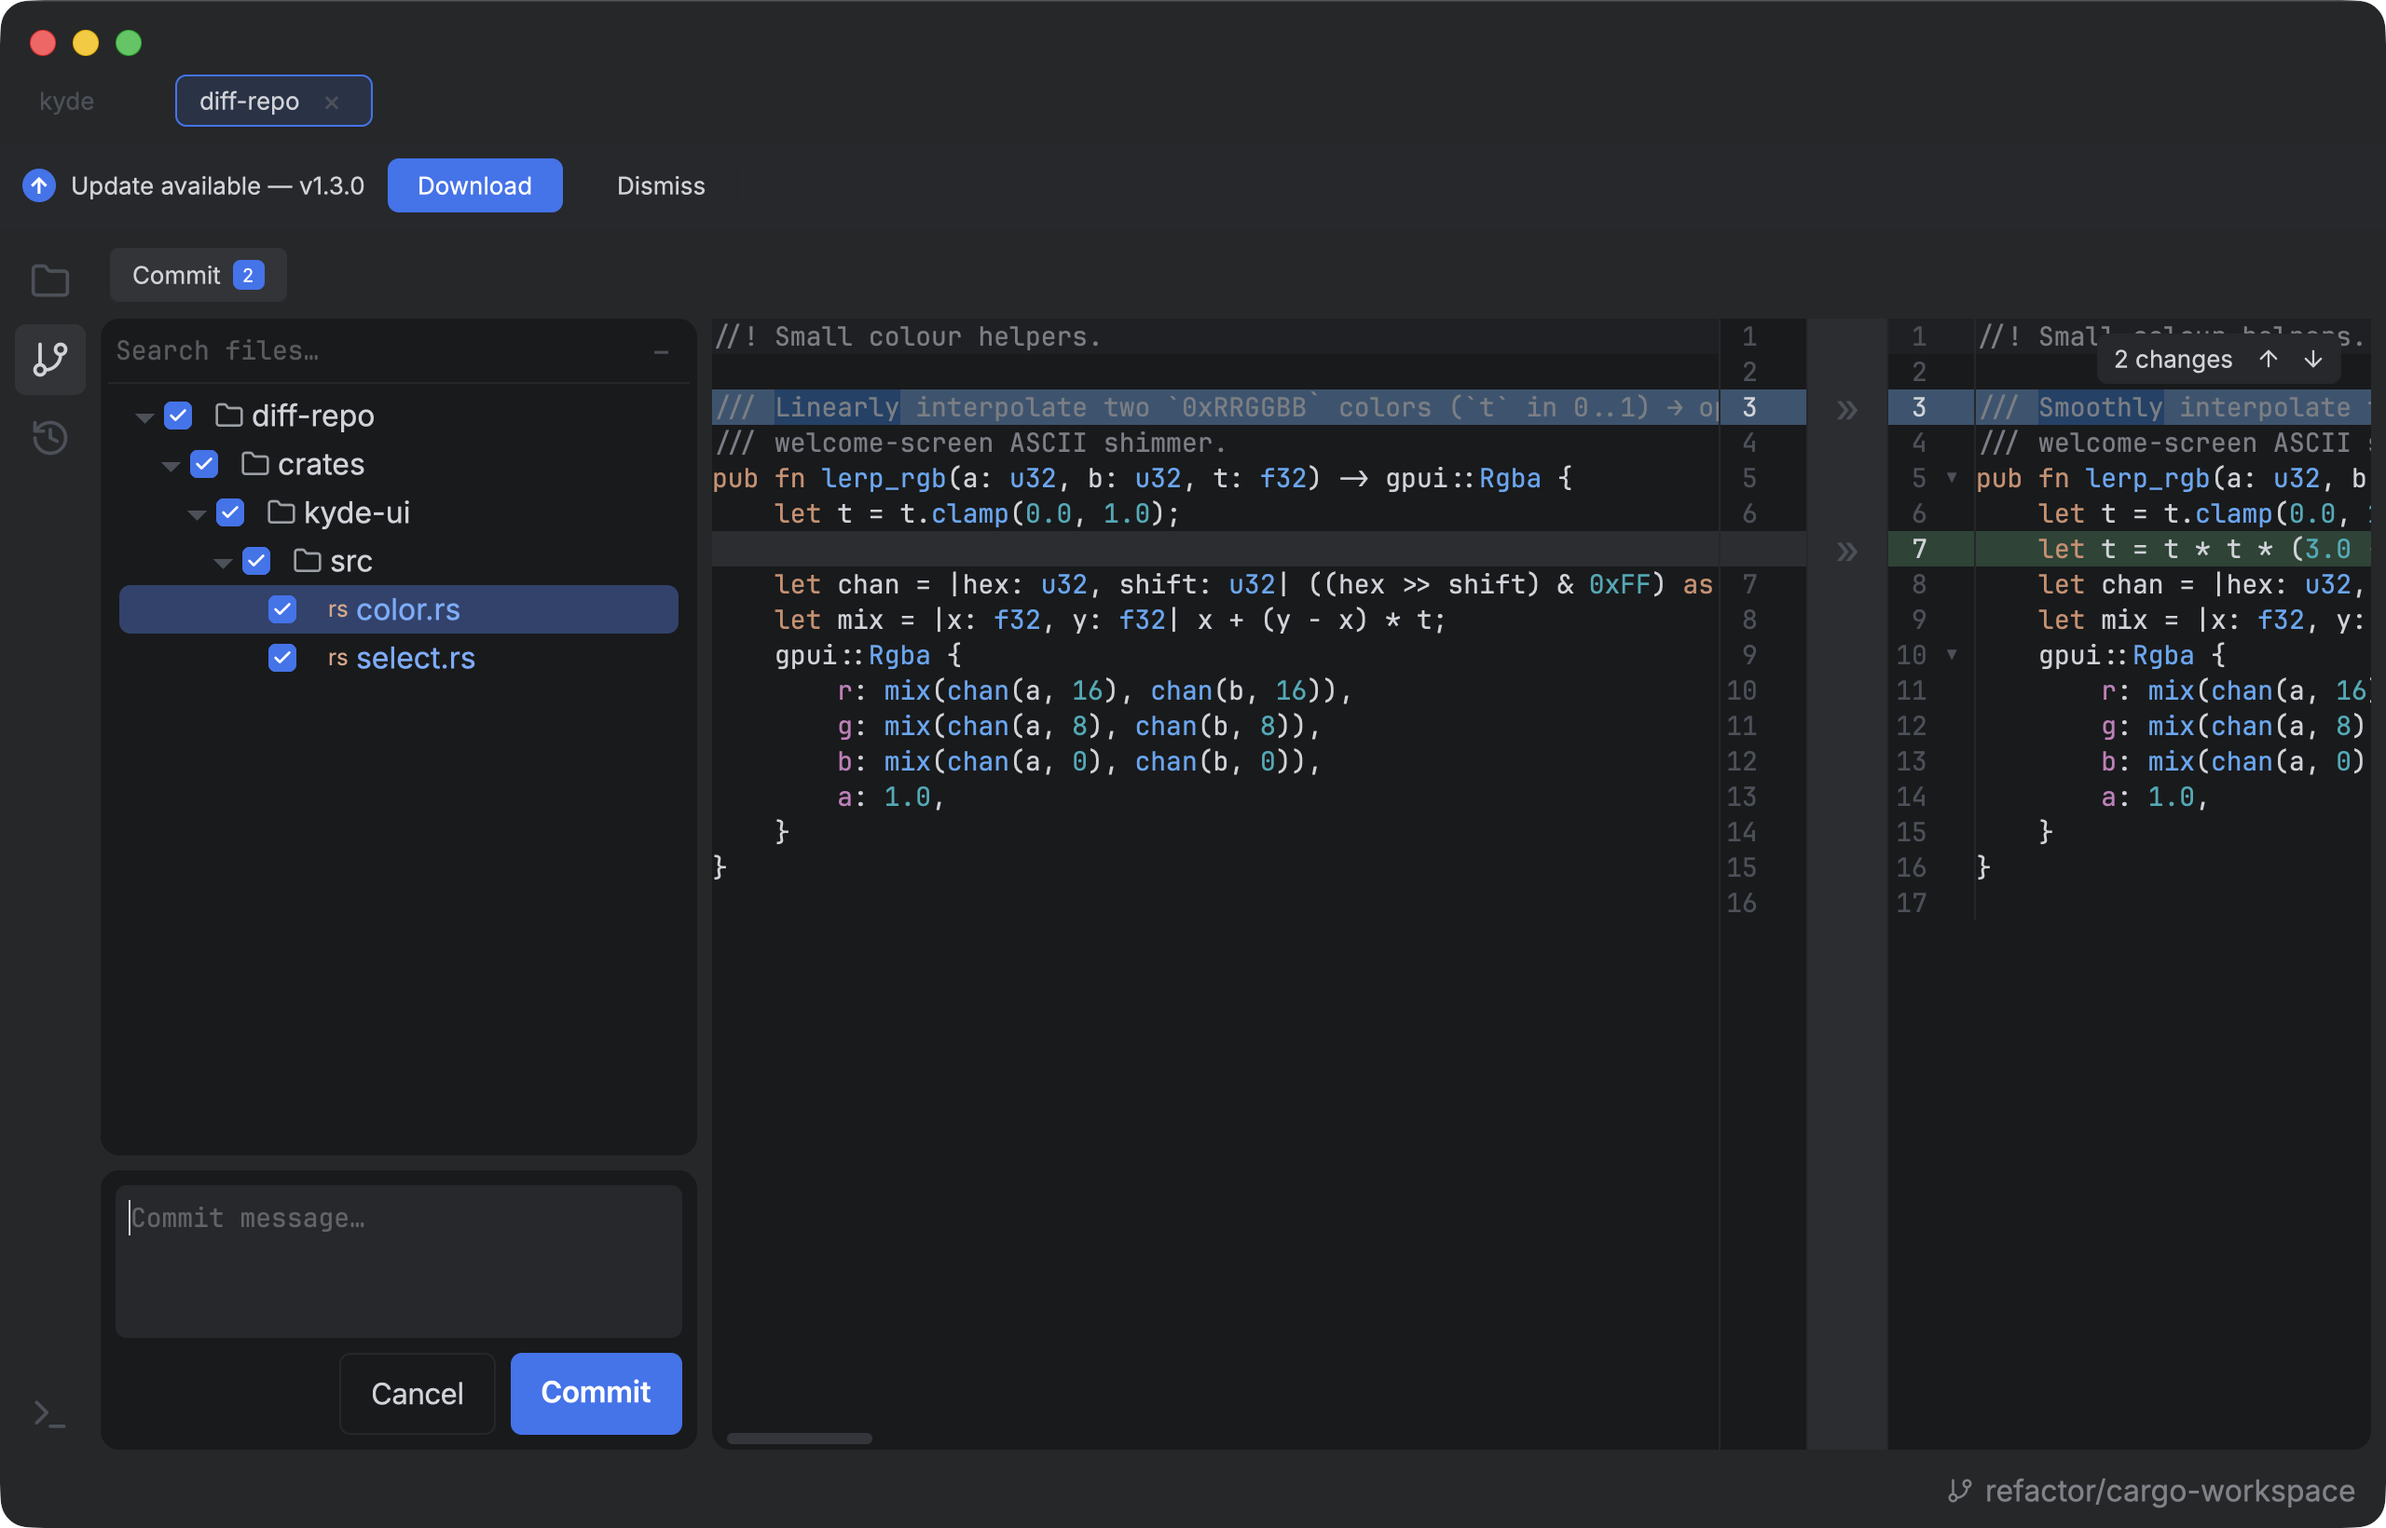
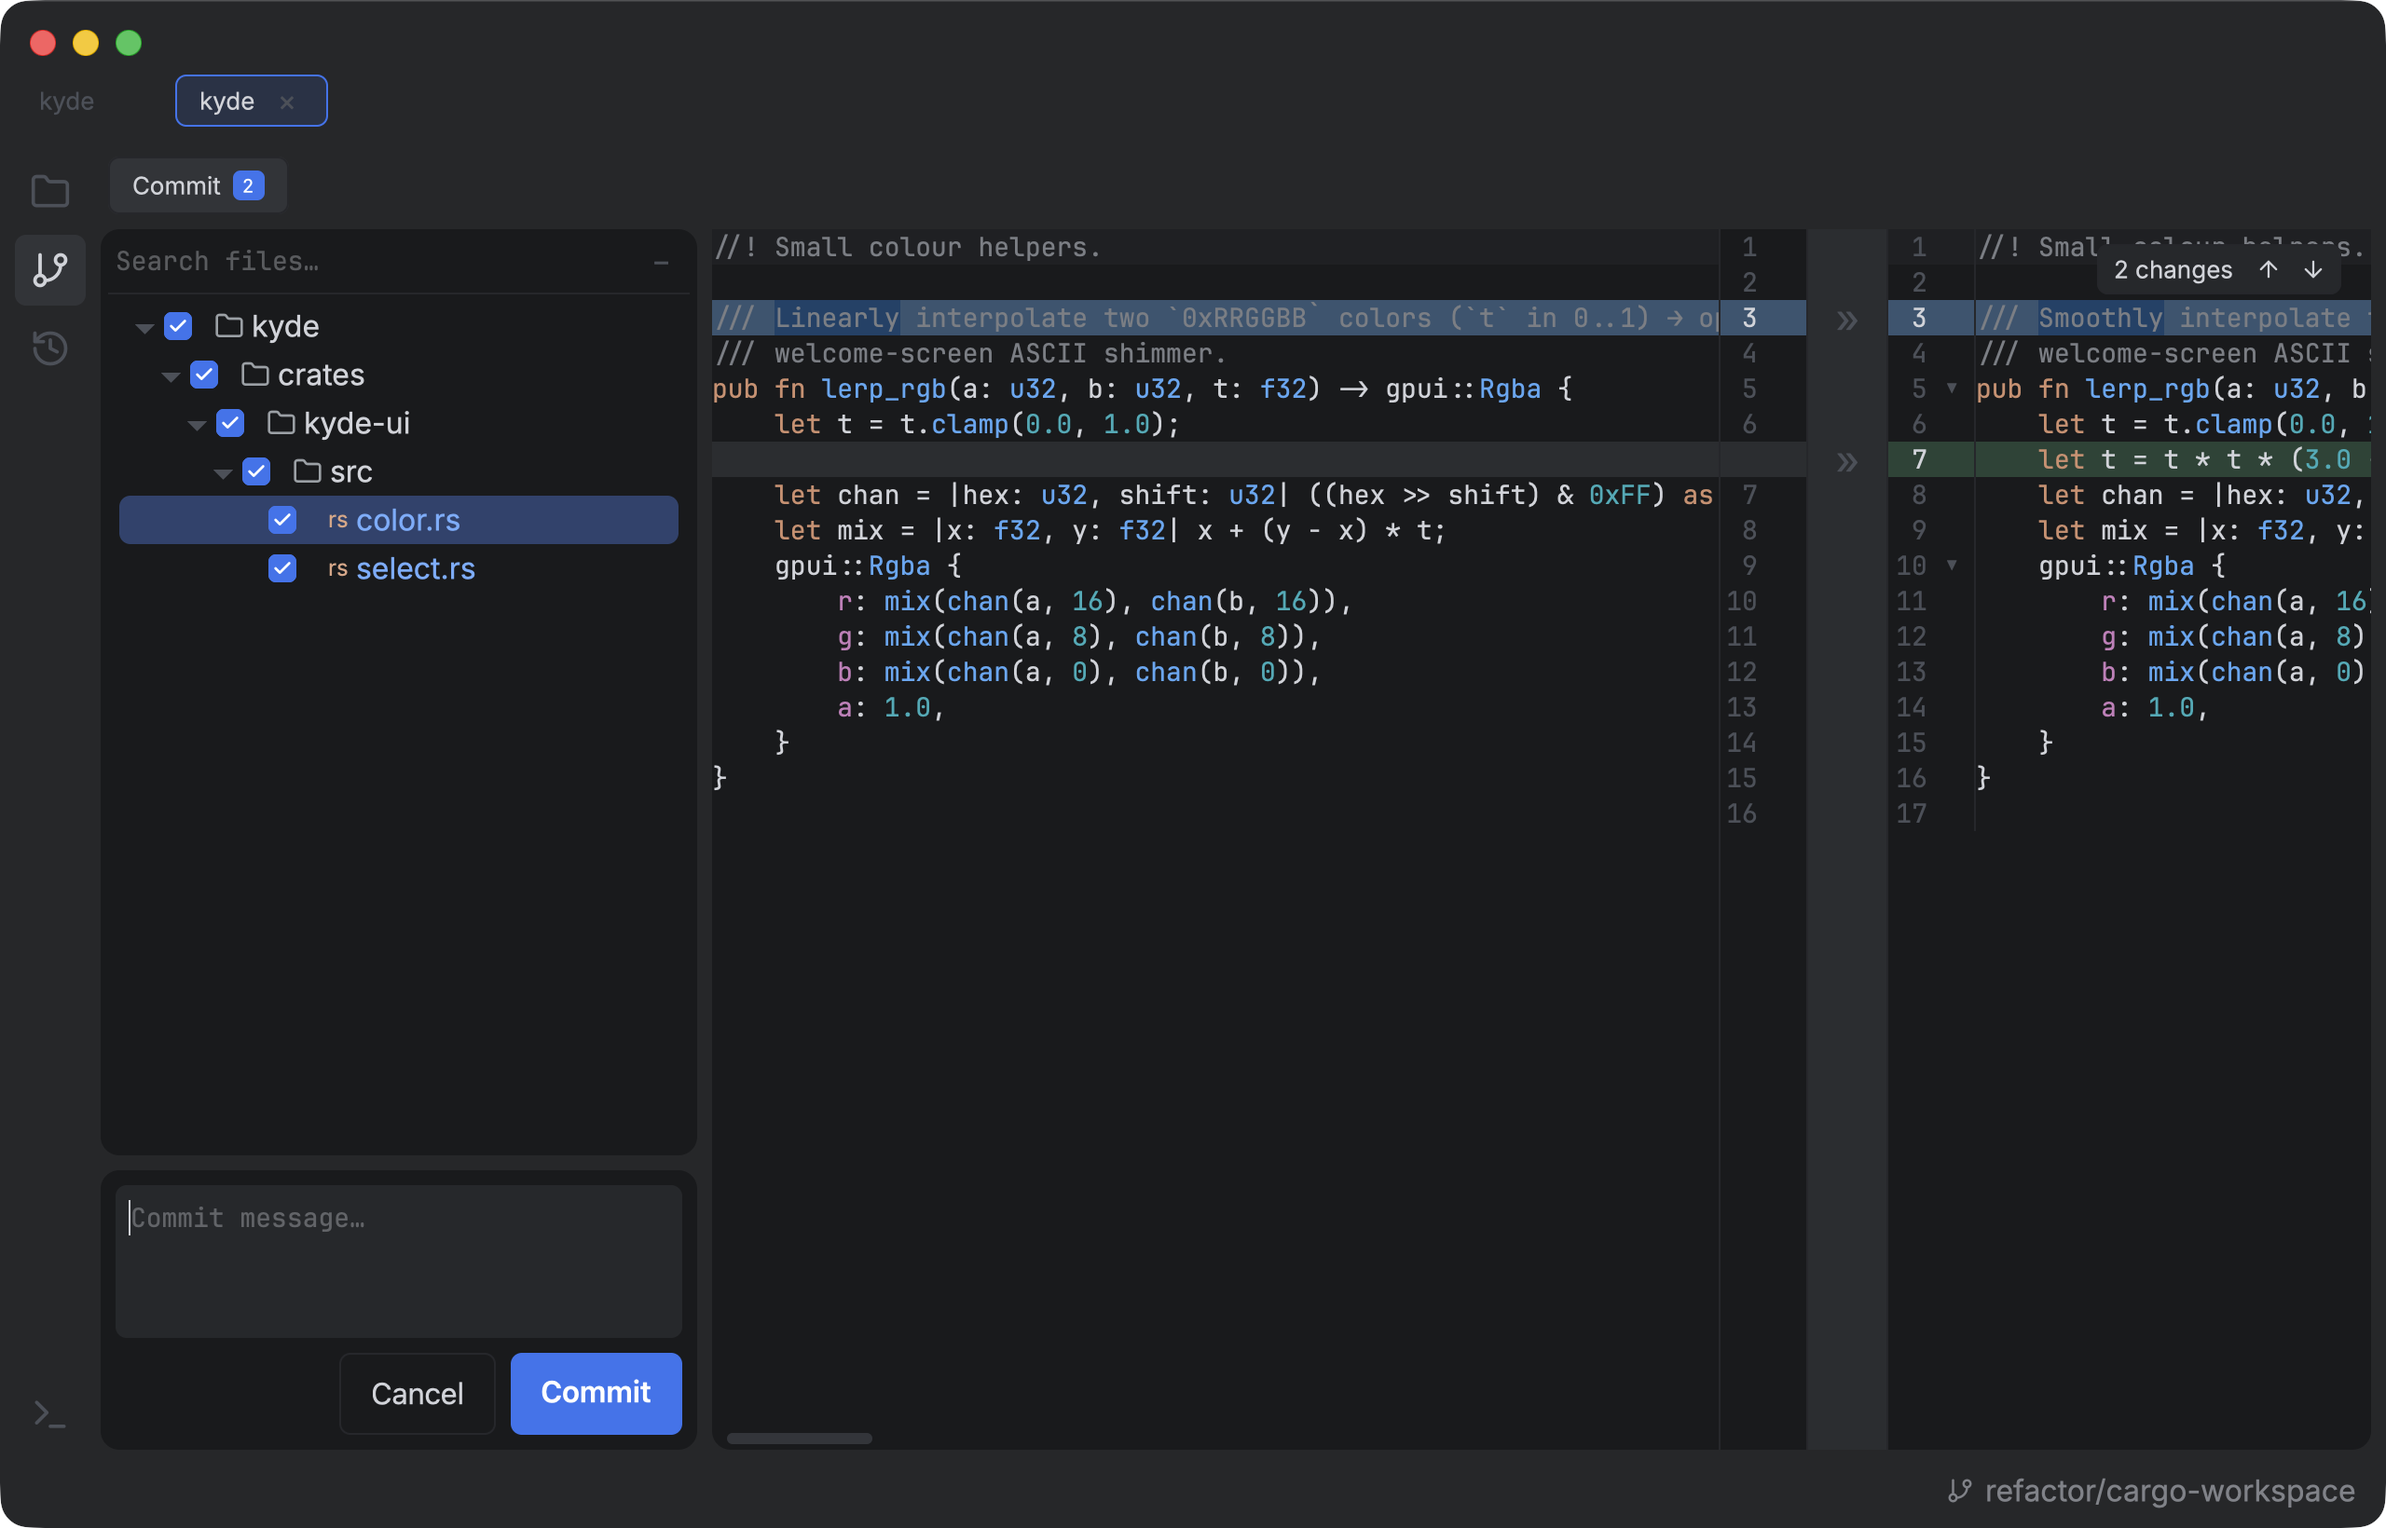
chore: improve git diff screenshots

Changed region(s): [[0.0, 0.0311, 1.0, 0.5287], [0.1562, 0.0933, 0.25, 0.1555], [0.0, 0.2177, 0.0312, 0.2488]]

diff --git a/crates/kyde-theme/src/lib.rs b/crates/kyde-theme/src/lib.rs
@@ -623,6 +623,175 @@ mod tests {
         }
     }
 
+    // ---- Colour-vision-deficiency simulation (Viénot et al. 1999) -------------------------
+    // Guards the design intent of the CVD presets: the *semantic* colours must stay
+    // perceptually separated (ΔE) for the deficiency each preset targets, and stay legible on
+    // their surface. Without this, an innocent hex edit could compile, pass the cheap
+    // RGB-inequality test, and silently destroy CVD-safety. Methodology (reproducible):
+    //   sRGB → linear → LMS (Hunt-Pointer-Estevez `RGB2LMS`) → project onto the dichromat
+    //   plane (`S_*`) → back to linear RGB → CIE-Lab → ΔE76 between the two simulated colours.
+    // The matrices and the per-category ΔE floors come from the tuning that produced the
+    // palettes (true minimums measured at status 26.8 / syntax 16.1 / diff 15.0 / contrast
+    // 3.02; floors set below those with slack so CI isn't flaky but real regressions trip it).
+    type Mat = [[f64; 3]; 3];
+    const RGB2LMS: [[f64; 3]; 3] = [
+        [17.8824, 43.5161, 4.11935],
+        [3.45565, 27.1554, 3.86714],
+        [0.0299566, 0.184309, 1.46709],
+    ];
+    const LMS2RGB: [[f64; 3]; 3] = [
+        [8.0944447905e-02, -1.3050440916e-01, 1.1672106644e-01],
+        [-1.0248533515e-02, 5.4019326636e-02, -1.1361470821e-01],
+        [-3.6529693786e-04, -4.1216146859e-03, 6.9351140486e-01],
+    ];
+    // Dichromat projection matrices (applied in LMS space).
+    const S_DEUT: [[f64; 3]; 3] = [[1.0, 0.0, 0.0], [0.494207, 0.0, 1.24827], [0.0, 0.0, 1.0]];
+    const S_PROT: [[f64; 3]; 3] = [[0.0, 2.02344, -2.52581], [0.0, 1.0, 0.0], [0.0, 0.0, 1.0]];
+    const S_TRIT: [[f64; 3]; 3] = [[1.0, 0.0, 0.0], [0.0, 1.0, 0.0], [-0.395913, 0.801109, 0.0]];
+
+    fn matvec(m: &[[f64; 3]; 3], v: [f64; 3]) -> [f64; 3] {
+        std::array::from_fn(|i| m[i][0] * v[0] + m[i][1] * v[1] + m[i][2] * v[2])
+    }
+    fn srgb_to_lin(c: f64) -> f64 {
+        if c <= 0.04045 {
+            c / 12.92
+        } else {
+            ((c + 0.055) / 1.055).powf(2.4)
+        }
+    }
+    fn lin_rgb(c: Rgba) -> [f64; 3] {
+        [
+            srgb_to_lin(c.r as f64),
+            srgb_to_lin(c.g as f64),
+            srgb_to_lin(c.b as f64),
+        ]
+    }
+    /// Relative luminance → WCAG contrast ratio between two colours.
+    fn contrast(a: Rgba, b: Rgba) -> f64 {
+        let l = |c: Rgba| {
+            let v = lin_rgb(c);
+            0.2126 * v[0] + 0.7152 * v[1] + 0.0722 * v[2]
+        };
+        let (la, lb) = (l(a), l(b));
+        (la.max(lb) + 0.05) / (la.min(lb) + 0.05)
+    }
+    /// Simulate `c` as seen with the dichromacy `s`; returns linear RGB.
+    fn simulate(c: Rgba, s: &[[f64; 3]; 3]) -> [f64; 3] {
+        let lms = matvec(&RGB2LMS, lin_rgb(c));
+        matvec(&LMS2RGB, matvec(s, lms)).map(|x| x.clamp(0.0, 1.0))
+    }
+    fn lin_to_lab(rgb: [f64; 3]) -> [f64; 3] {
+        // linear sRGB → XYZ (D65) → Lab.
+        const X: [[f64; 3]; 3] = [
+            [0.4124, 0.3576, 0.1805],
+            [0.2126, 0.7152, 0.0722],
+            [0.0193, 0.1192, 0.9505],
+        ];
+        let xyz = matvec(&X, rgb);
+        let wp = [0.95047, 1.0, 1.08883];
+        let f = |t: f64| {
+            if t > 0.008856 {
+                t.cbrt()
+            } else {
+                7.787 * t + 16.0 / 116.0
+            }
+        };
+        let (fx, fy, fz) = (f(xyz[0] / wp[0]), f(xyz[1] / wp[1]), f(xyz[2] / wp[2]));
+        [116.0 * fy - 16.0, 500.0 * (fx - fy), 200.0 * (fy - fz)]
+    }
+    /// ΔE76 between two colours as seen with dichromacy `s`.
+    fn delta_e(a: Rgba, b: Rgba, s: &[[f64; 3]; 3]) -> f64 {
+        let (la, lb) = (lin_to_lab(simulate(a, s)), lin_to_lab(simulate(b, s)));
+        ((la[0] - lb[0]).powi(2) + (la[1] - lb[1]).powi(2) + (la[2] - lb[2]).powi(2)).sqrt()
+    }
+
+    #[test]
+    fn cvd_presets_stay_perceptually_separated_under_their_deficiency() {
+        // (preset, name, the dichromacies it must survive).
+        let cases: [(Theme, &str, &[&Mat]); 4] = [
+            (Theme::dark_redgreen(), "dark_redgreen", &[&S_DEUT, &S_PROT]),
+            (
+                Theme::light_redgreen(),
+                "light_redgreen",
+                &[&S_DEUT, &S_PROT],
+            ),
+            (Theme::dark_tritan(), "dark_tritan", &[&S_TRIT]),
+            (Theme::light_tritan(), "light_tritan", &[&S_TRIT]),
+        ];
+        for (t, name, mats) in cases {
+            // Worst ΔE across the relevant deficiencies for a pair.
+            let worst = |a: Rgba, b: Rgba| {
+                mats.iter()
+                    .map(|s| delta_e(a, b, s))
+                    .fold(f64::INFINITY, f64::min)
+            };
+            let check = |a: Rgba, b: Rgba, floor: f64, pair: &str| {
+                let d = worst(a, b);
+                assert!(d >= floor, "{name}: {pair} ΔE={d:.1} < {floor}");
+            };
+
+            // Git status — the carrying colours, mutually distinct (floor 22; min measured 26.8).
+            let st = [
+                ("added/modified", t.status_added, t.status_modified),
+                ("added/conflict", t.status_added, t.status_conflict),
+                ("added/deleted", t.status_added, t.status_deleted),
+                ("modified/conflict", t.status_modified, t.status_conflict),
+                ("modified/deleted", t.status_modified, t.status_deleted),
+                ("conflict/deleted", t.status_conflict, t.status_deleted),
+            ];
+            for (p, a, b) in st {
+                check(a, b, 22.0, p);
+            }
+            // Common syntax roles (floor 13; min measured 16.1).
+            let syn = [
+                ("string/keyword", t.syn_string, t.syn_keyword),
+                ("string/function", t.syn_string, t.syn_function),
+                ("string/number", t.syn_string, t.syn_number),
+                ("keyword/function", t.syn_keyword, t.syn_function),
+                ("keyword/number", t.syn_keyword, t.syn_number),
+                ("number/function", t.syn_number, t.syn_function),
+            ];
+            for (p, a, b) in syn {
+                check(a, b, 13.0, p);
+            }
+            // Diff hunk tints (floor 12; min measured 15.0).
+            let df = [
+                ("ins/del", t.diff_inserted_bg, t.diff_deleted_bg),
+                ("ins/mod", t.diff_inserted_bg, t.diff_modified_bg),
+                ("del/mod", t.diff_deleted_bg, t.diff_modified_bg),
+            ];
+            for (p, a, b) in df {
+                check(a, b, 12.0, p);
+            }
+            // Legibility: every carrying colour readable on the editor surface (floor 2.8;
+            // min measured 3.02 — clears WCAG 3:1 for large/bold UI text).
+            for (label, col) in [
+                ("status_added", t.status_added),
+                ("status_modified", t.status_modified),
+                ("status_conflict", t.status_conflict),
+                ("syn_string", t.syn_string),
+                ("syn_keyword", t.syn_keyword),
+                ("syn_number", t.syn_number),
+                ("syn_function", t.syn_function),
+            ] {
+                let cr = contrast(col, t.main_bg);
+                assert!(cr >= 2.8, "{name}: {label} contrast={cr:.2} < 2.8");
+            }
+        }
+    }
+
+    #[test]
+    fn cvd_simulation_matches_known_confusions() {
+        // Sanity-check the simulator against the *default* palette's known weak pairs (the ones
+        // that motivated the presets): they must read as low-ΔE under the deficiency that hurts
+        // them, proving the metric actually detects CVD collisions (not just always-passing).
+        let d = Theme::default();
+        // Green added vs red conflict collapses for deuteranopes.
+        assert!(delta_e(d.status_added, d.status_conflict, &S_DEUT) < 12.0);
+        // Green string vs orange keyword collapses for protanopes.
+        assert!(delta_e(d.syn_string, d.syn_keyword, &S_PROT) < 12.0);
+    }
+
     #[test]
     fn presets_are_six_distinct_palettes() {
         let ps = Theme::presets();
